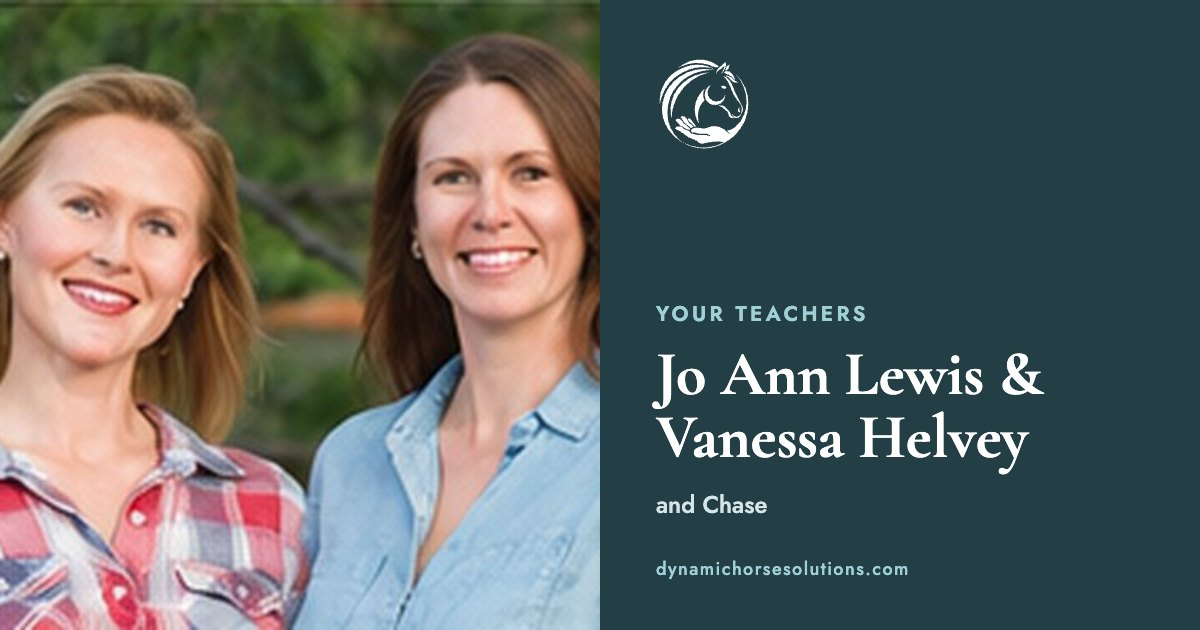
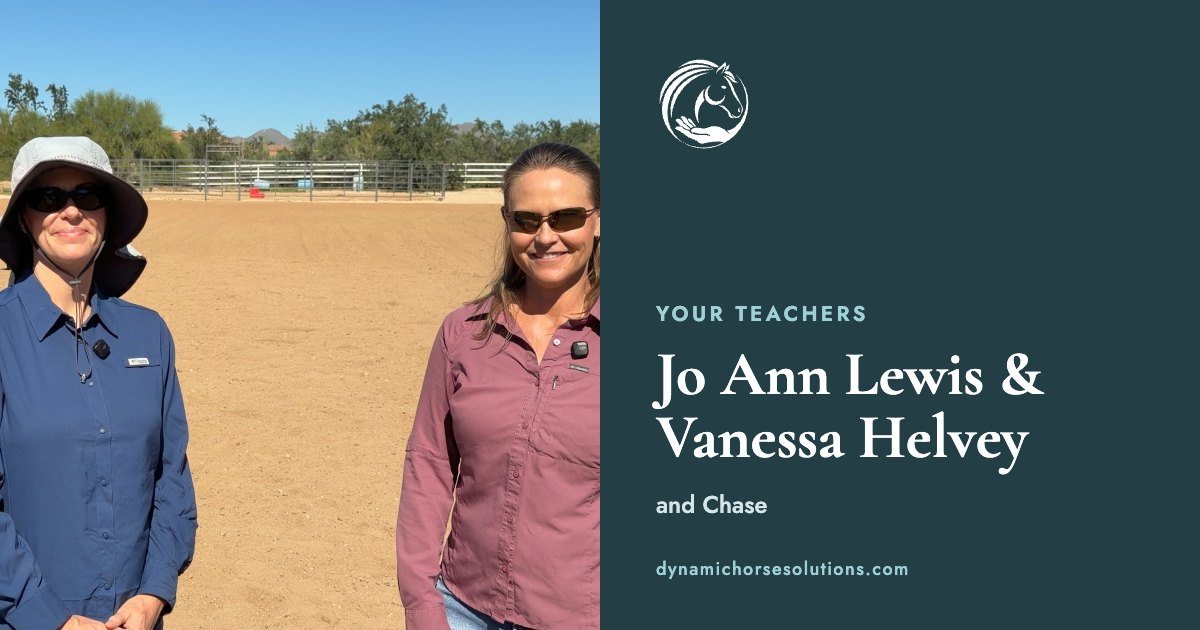
The teachers' photo is a real still from the Part I shoot (arena intro, 66.50s), replacing the AI picture; share images for About and Podcast recut
Claude-Session: https://claude.ai/code/session_01Bj8pw7EV3BnuEFtyC1d2Uh

diff --git a/about.html b/about.html
@@ -41,7 +41,7 @@
 
 <section id="teachers" class="teachers">
   <h2>The Teachers</h2>
-  <img class="duo" src="assets/teachers.jpg" alt="Jo Ann Lewis and Vanessa Helvey" width="732" height="376">
+  <img class="duo" src="assets/teachers.jpg" alt="Vanessa Helvey and Jo Ann Lewis in the arena at Copper Horse Ranch" width="732" height="376">
   <div class="pair">
     <article>
       <h3>Jo Ann Lewis, BSc</h3>

diff --git a/build.py b/build.py
@@ -337,7 +337,7 @@ ABOUT = """
 
 <section id="teachers" class="teachers">
   <h2>The Teachers</h2>
-  <img class="duo" src="assets/teachers.jpg" alt="Jo Ann Lewis and Vanessa Helvey" width="732" height="376">
+  <img class="duo" src="assets/teachers.jpg" alt="Vanessa Helvey and Jo Ann Lewis in the arena at Copper Horse Ranch" width="732" height="376">
   <div class="pair">
     <article>
       <h3>Jo Ann Lewis, BSc</h3>
